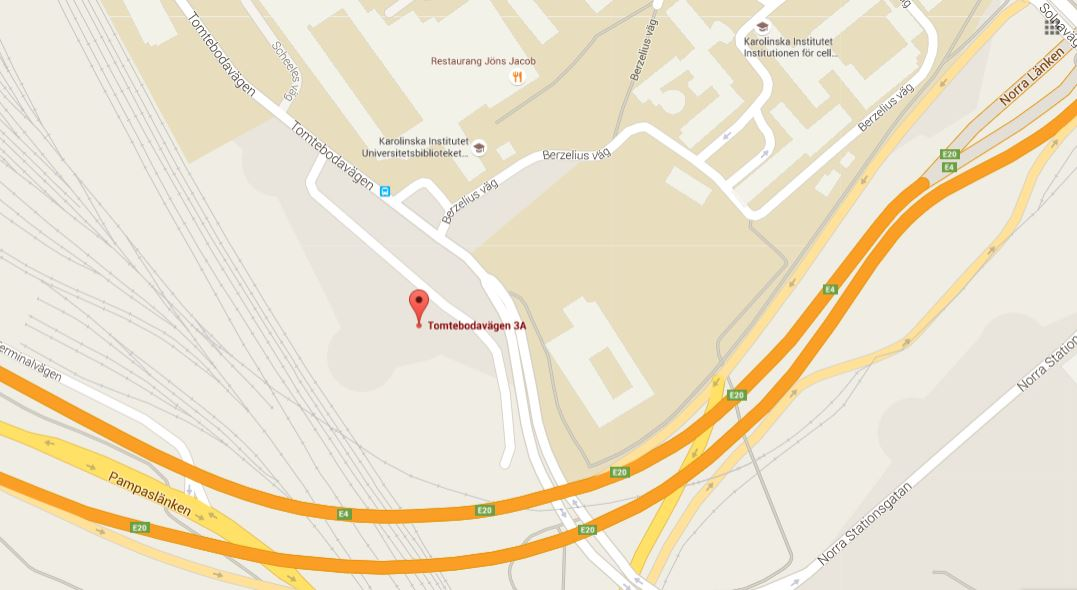
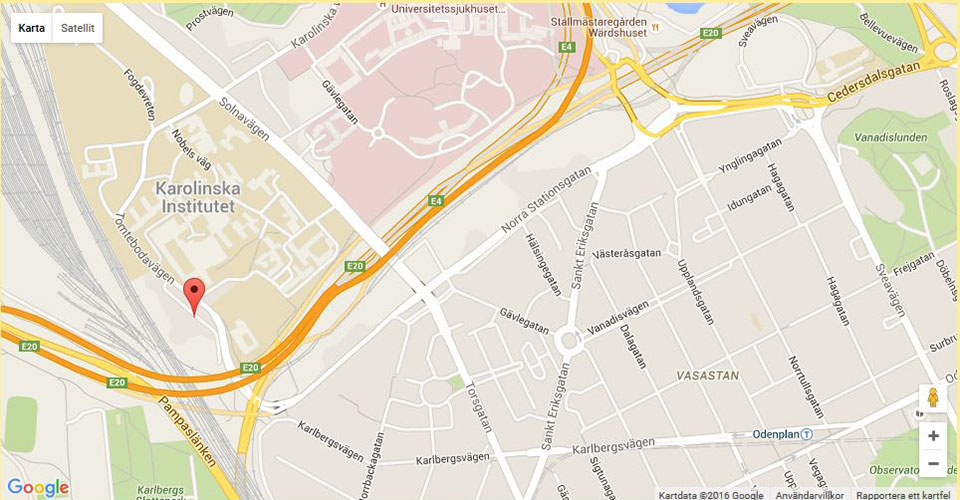
Lagt till karta för tablet o desktop. Ändrat kartbilder

diff --git a/kontakt.html b/kontakt.html
@@ -33,9 +33,14 @@
                     <p>Karolin Thunman <a href="mailto:karolin.thunman@gmail.com">karolin.thunman@gmail.com</a></p>
                     <p>Natasza Nowakowska <a href="mailto:natasza@fingerspitz.se">natasza@fingerspitz.se</a></p>
                     <p>Ylva Häggblad <a href="mailto:ylva.haggblad@gmail.com">ylva.haggblad@gmail.com</a></p>
-                    
+
+<section>
+    <h3>Hitta till oss!</h3>
+    <p>Vi finns på Tomtebodavägen 3A i Solna, Stockholm. Kartan nedan är från <a href="https://goo.gl/maps/jKwYbcMFYnk" title="Karta från Google över Tomtebodavägen 3A, Solna" alt="Karta från maps.google.com över Tomtebodavägen 3A, Solna" target="_blank">Google Maps</a>.</p>
+</section> 
+<div id="karta"></div>                
 <noscript>               
-<a href="https://goo.gl/maps/6XLbutShJaL2" title="Länk till karta på Google Maps"><div class="kartaNoscript"></div></a>
+<div class="kartaNoscript" title="Karta från Google över Tomtebodavägen 3A, Solna"></div>
 
     <style>
      /*display:none på kartan med script*/

diff --git a/css/style.css b/css/style.css
@@ -32,16 +32,18 @@ header {
 }
 
 
-/* MAP*/
+/*KARTA*/
 
+/*Utan Javascript*/
 .kartaNoscript {
     max-width: 100%;
-	height: 400px;
-    background-image: url("../img/karta.JPG");
+	height: 350px;
+    background-image: url("../img/kartamobil.jpg");
     background-repeat: no-repeat;
-    background-size: cover; 
-
+    background-position: center left;
+    background-size: contain; 
 }
+
 /*==========
 FOOTER
 *****/
@@ -201,6 +203,15 @@ nav li.active a {
 		width: 960px;
 		margin: 0 auto;
 	}
+    
+    .kartaNoscript {
+    max-width: 100%;
+	height: 500px;
+    background-image: url("../img/karta.jpg");
+    background-repeat: no-repeat;
+    background-position: center left;
+    background-size: cover; 
+}
 }
 
 /* Desktop */ 
